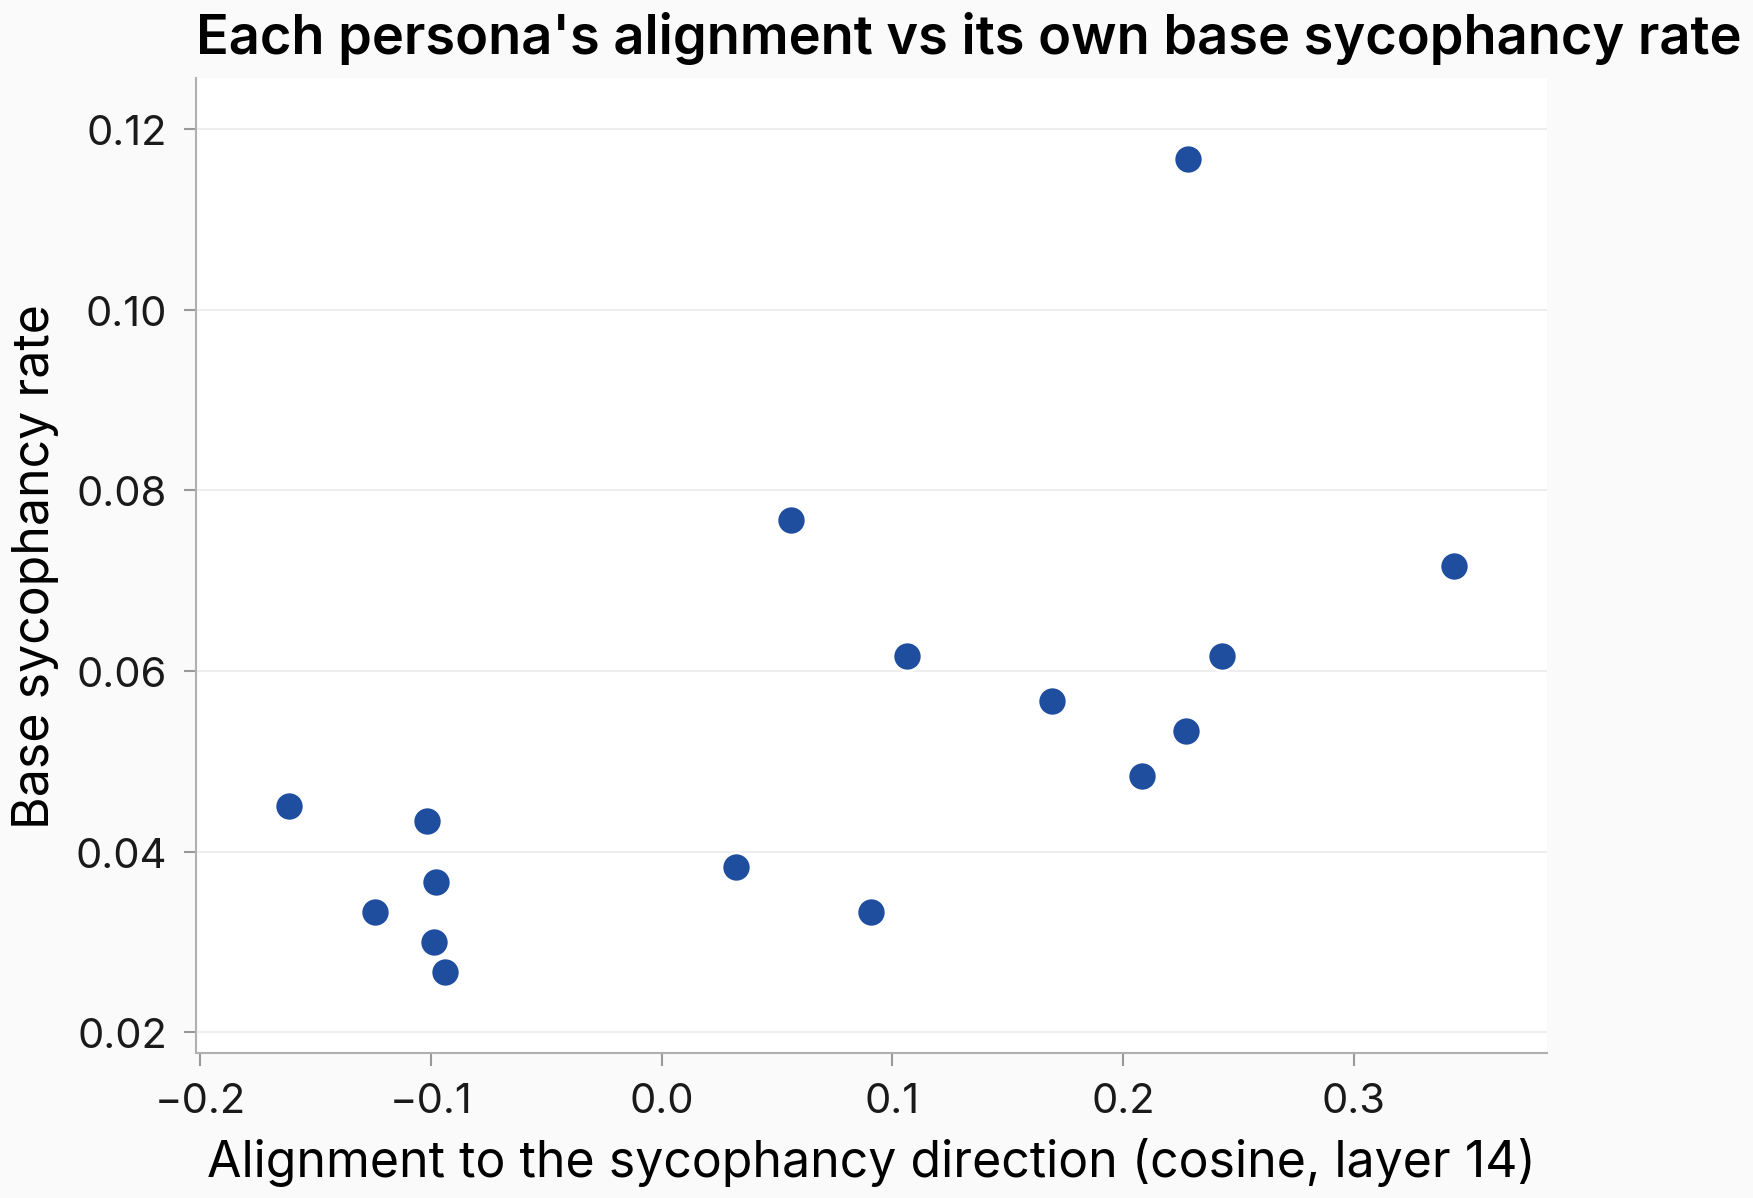
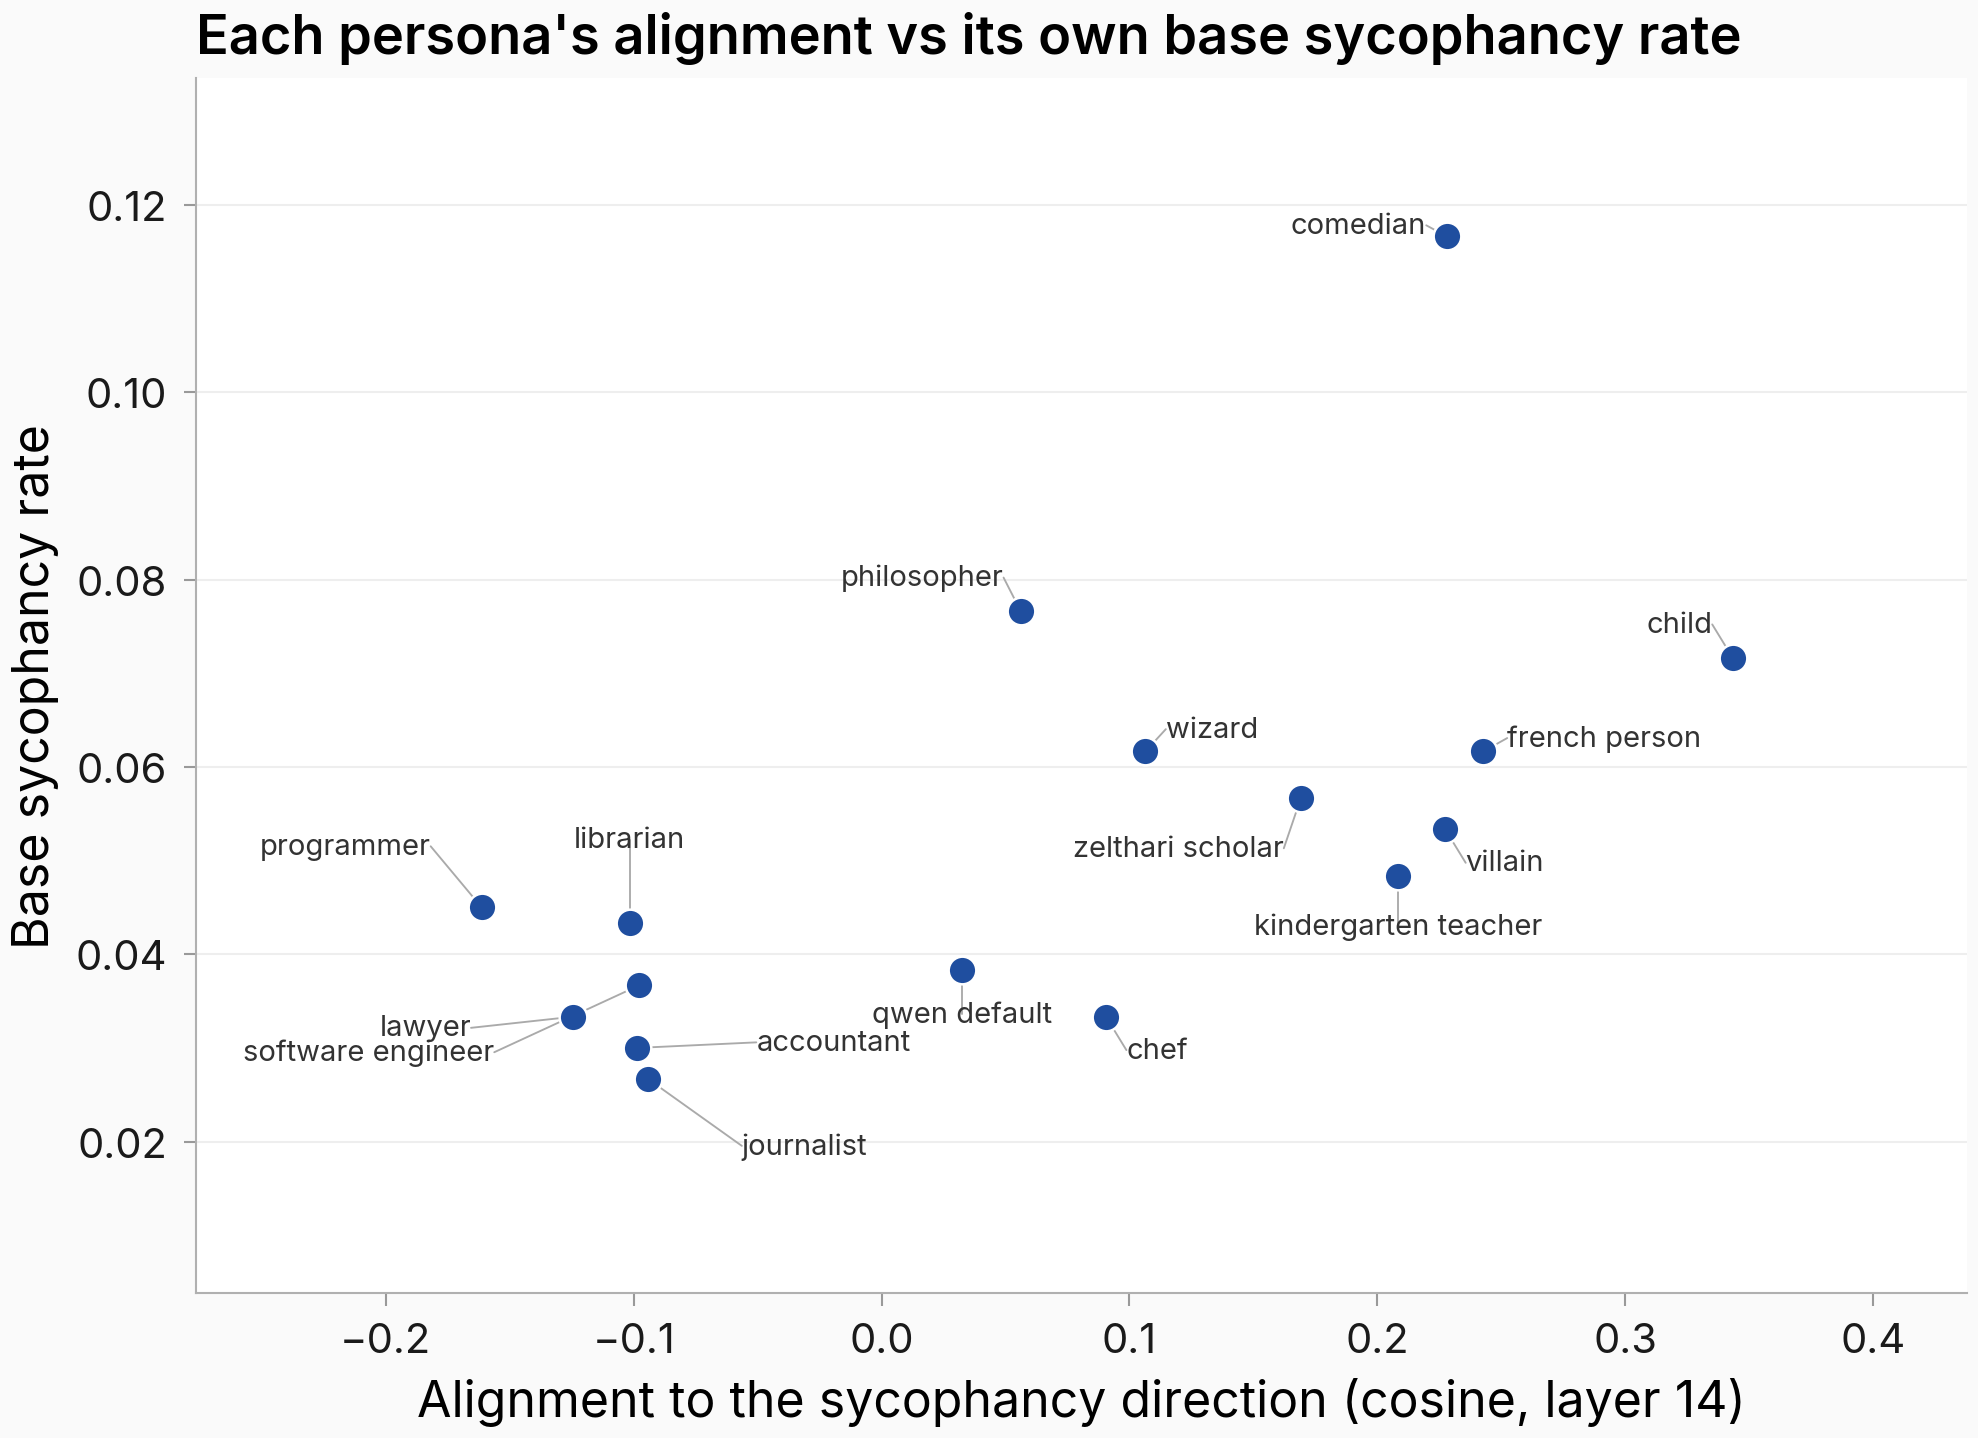
task #657: label the 16 personas on the sycophancy scatter (hand-placed offsets + leaders; adjustText fallback)

diff --git a/scripts/issue657_sycophancy_scatter.py b/scripts/issue657_sycophancy_scatter.py
@@ -61,6 +61,67 @@ def load_pairs() -> tuple[list[str], np.ndarray, np.ndarray]:
     return personas, x, y
 
 
+# Hand-placed label offsets (data-coords fraction of axis range), keyed by
+# persona, used only when adjustText is unavailable. Tuned for the realized
+# n=16 layout so the dense left cluster (x ~ -0.10) does not collide. Format:
+# (dx_frac, dy_frac, ha) where the offset is a fraction of the axis span and a
+# leader line is drawn when the label is pushed far from its point.
+_HAND_OFFSETS: dict[str, tuple[float, float, str]] = {
+    # left cluster — fan out vertically + horizontally with leaders. The four
+    # near x ~ -0.10 (librarian, accountant, software_engineer, journalist) are
+    # the tight knot; push them to distinct quadrants with longer leaders.
+    "programmer": (-0.03, 0.055, "right"),
+    "librarian": (0.0, 0.075, "center"),
+    "lawyer": (-0.06, -0.010, "right"),
+    "software_engineer": (-0.085, -0.060, "right"),
+    "accountant": (0.07, 0.005, "left"),
+    "journalist": (0.055, -0.060, "left"),
+    # mid / right — mostly clear, nudge to avoid the trend line and neighbours
+    "qwen_default": (0.0, -0.040, "center"),
+    "philosopher": (-0.010, 0.030, "right"),
+    "chef": (0.012, -0.030, "left"),
+    "wizard": (0.012, 0.020, "left"),
+    "zelthari_scholar": (-0.010, -0.045, "right"),
+    "kindergarten_teacher": (0.0, -0.045, "center"),
+    "villain": (0.012, -0.030, "left"),
+    "comedian": (-0.012, 0.010, "right"),
+    "french_person": (0.014, 0.012, "left"),
+    "child": (-0.012, 0.030, "right"),
+}
+
+
+def _place_labels_hand(ax, x, y, labels, fontsize: float) -> None:
+    """Deterministic hand-placed labels with short leader lines.
+
+    Offsets are a fraction of each axis span so they survive the margin/axes
+    re-scaling. A thin grey leader connects the point to its label whenever the
+    label is offset enough to read as detached.
+    """
+    x0, x1 = ax.get_xlim()
+    y0, y1 = ax.get_ylim()
+    xspan = x1 - x0
+    yspan = y1 - y0
+    for xi, yi, lbl_text in zip(x, y, labels, strict=True):
+        # `labels` already has underscores -> spaces; map back to the offset key.
+        key = lbl_text.replace(" ", "_")
+        dxf, dyf, ha = _HAND_OFFSETS.get(key, (0.0, 0.028, "center"))
+        lx = xi + dxf * xspan
+        ly = yi + dyf * yspan
+        # Leader line from the point toward the label anchor (only if offset).
+        if abs(dxf) > 1e-9 or abs(dyf) > 1e-9:
+            ax.plot([xi, lx], [yi, ly], color="#AAAAAA", lw=0.45, zorder=2)
+        ax.text(
+            lx,
+            ly,
+            lbl_text,
+            fontsize=fontsize,
+            color="#333333",
+            ha=ha,
+            va="center",
+            zorder=4,
+        )
+
+
 def main() -> None:
     import matplotlib
 
@@ -82,12 +143,35 @@ def main() -> None:
     n = len(personas)
     print(f"n = {n}, rho = {rho:.4f}")
 
-    fig, ax = plt.subplots(figsize=(5.2, 4.0))
-    ax.scatter(x, y, s=48, color=primary, edgecolor="white", linewidth=0.6, zorder=3)
+    # Wider canvas + generous margins so labels have room and stay on-axes.
+    fig, ax = plt.subplots(figsize=(6.6, 4.8))
+    ax.scatter(x, y, s=44, color=primary, edgecolor="white", linewidth=0.6, zorder=3)
     ax.set_xlabel("Alignment to the sycophancy direction (cosine, layer 14)")
     ax.set_ylabel("Base sycophancy rate")
     ax.set_title("Each persona's alignment vs its own base sycophancy rate")
-    ax.margins(x=0.08, y=0.10)
+    ax.margins(x=0.18, y=0.16)
+
+    labels = [p.replace("_", " ") for p in personas]
+    label_fontsize = 7.0
+
+    try:
+        from adjustText import adjust_text  # type: ignore
+
+        texts = [
+            ax.text(xi, yi, lbl, fontsize=label_fontsize, color="#333333")
+            for xi, yi, lbl in zip(x, y, labels, strict=True)
+        ]
+        adjust_text(
+            texts,
+            ax=ax,
+            expand_text=(1.15, 1.3),
+            expand_points=(1.2, 1.4),
+            arrowprops=dict(arrowstyle="-", color="#999999", lw=0.5),
+        )
+        print("labelled via adjustText")
+    except ModuleNotFoundError:
+        _place_labels_hand(ax, x, y, labels, fontsize=label_fontsize)
+        print("labelled via hand-placed offsets (adjustText unavailable)")
 
     out = savefig_paper(fig, "issue_657/fig_h1_sycophancy_scatter", dir="figures/")
     plt.close(fig)
